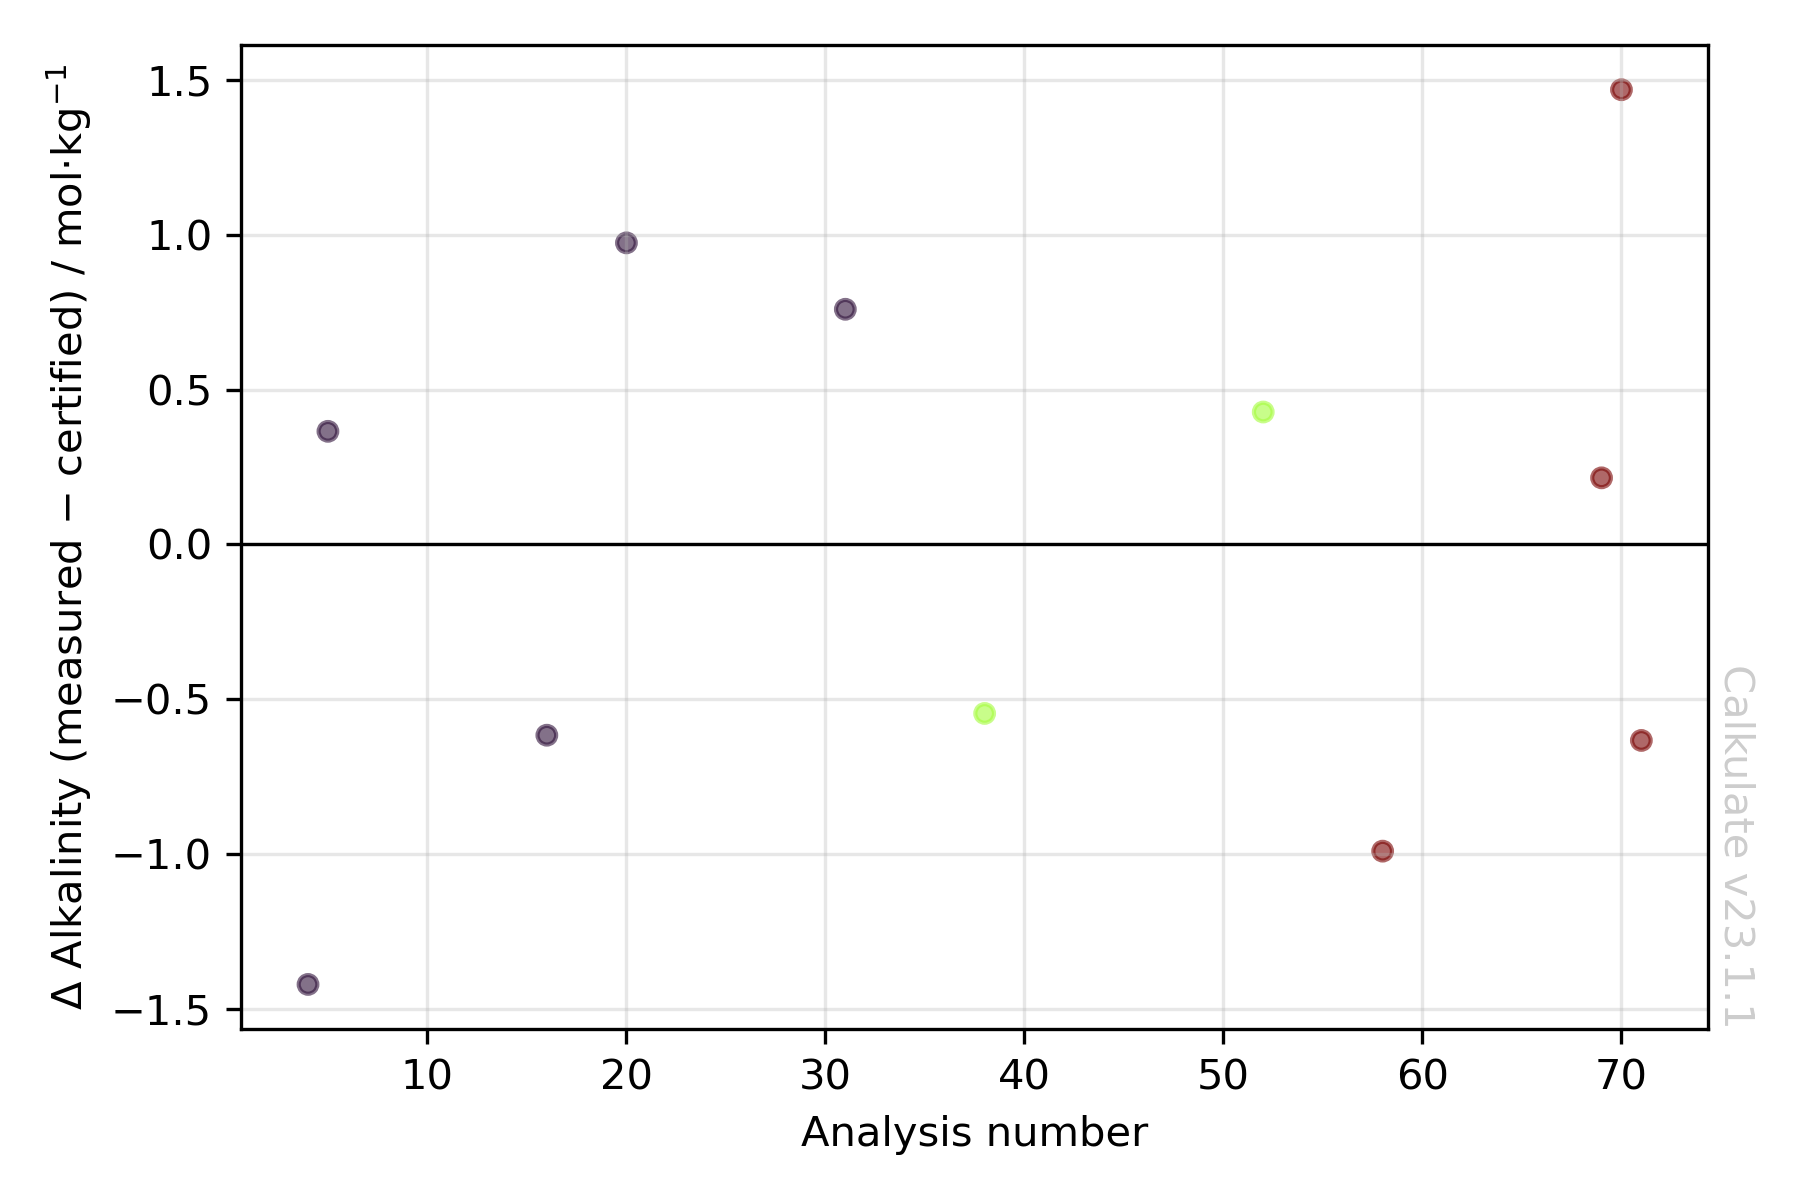
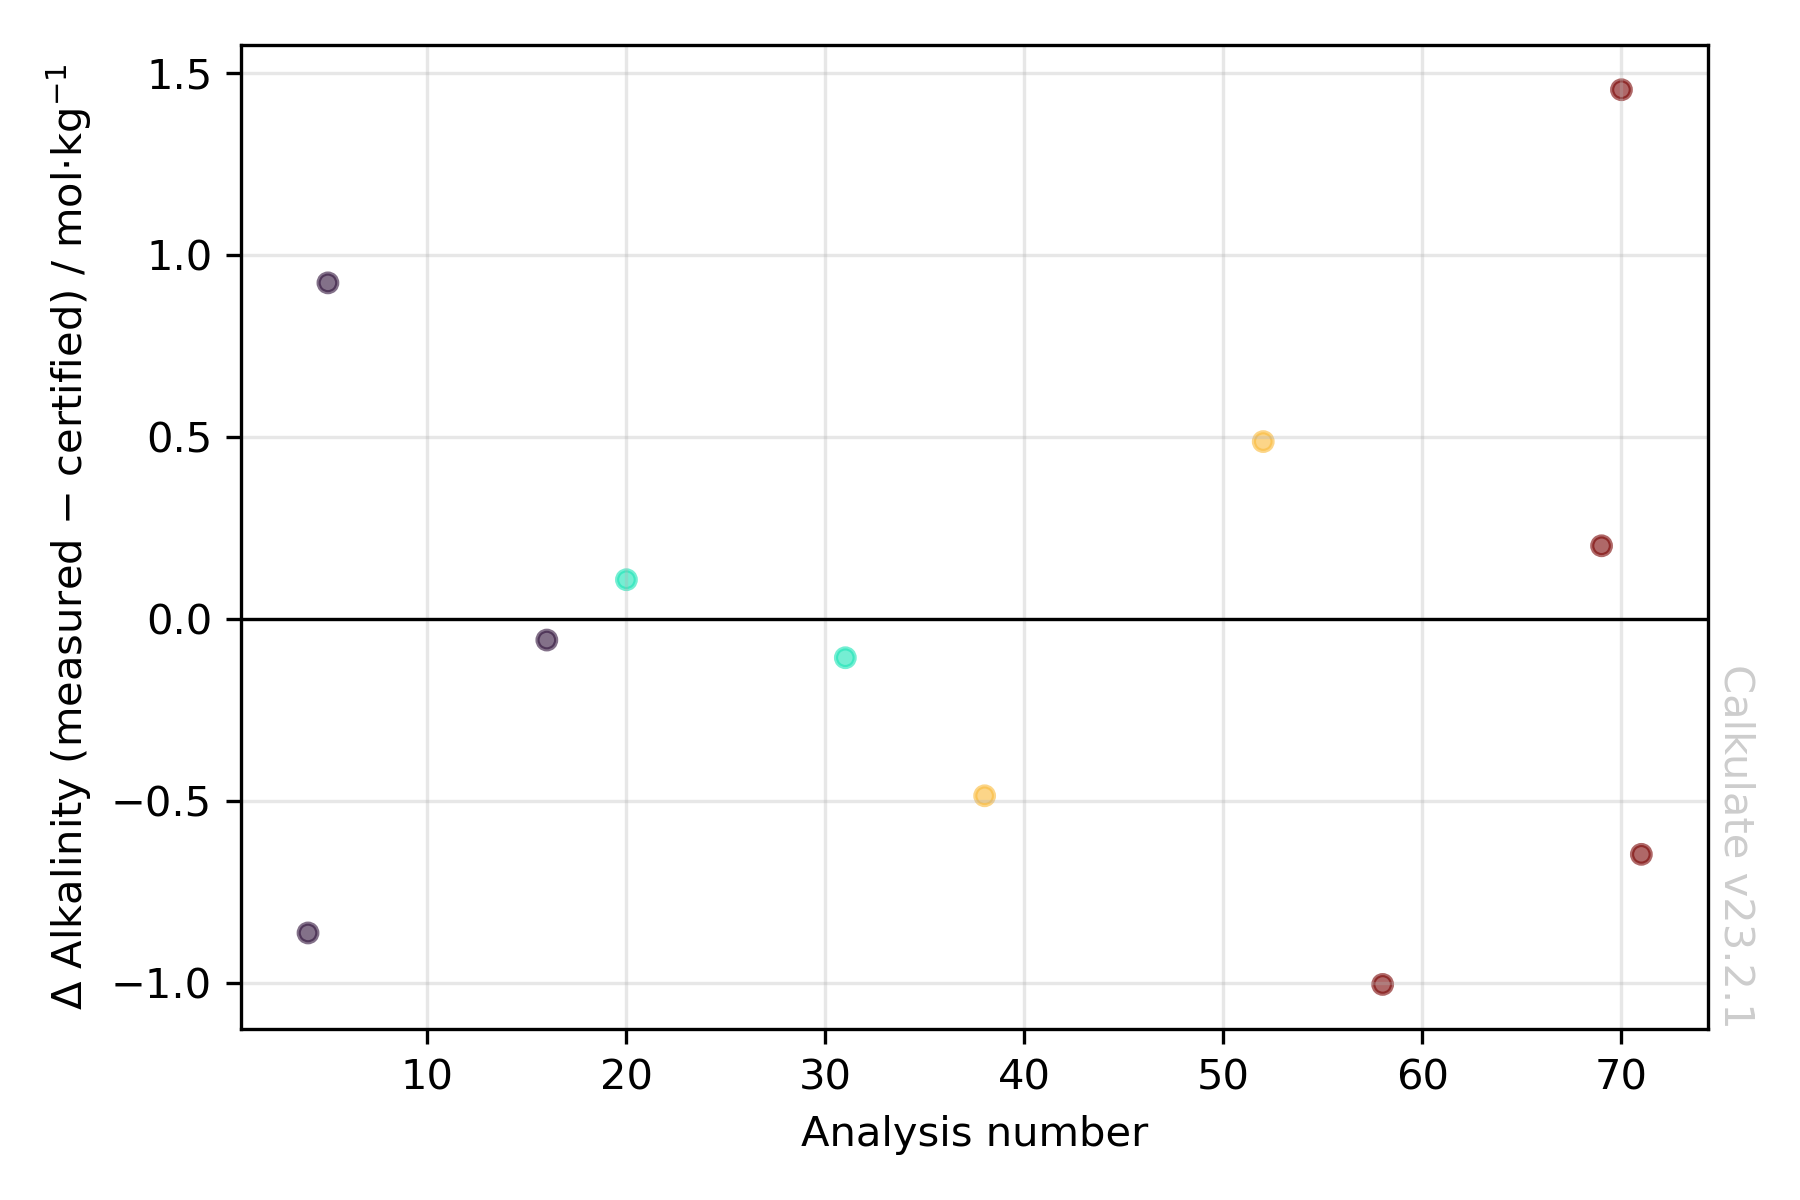
remove acid drift correction + treat each analysis batch as one acid batch

diff --git a/vindta/storage_test_process.py b/vindta/storage_test_process.py
@@ -167,9 +167,9 @@ dbs["file_path"] = "data/LD_storage_test_TA/"
 # first 4 analysis had the same bach made 15/09/2021
 # // this remedies the acid drift
 dbs['analysis_batch'] = 1 # made 15/09/2021
-dbs.loc[dbs['analysis_datetime'].dt.day==13, 'analysis_batch'] = 1
-dbs.loc[dbs['analysis_datetime'].dt.day==27, 'analysis_batch'] = 2
-dbs.loc[dbs['analysis_datetime'].dt.day==18, 'analysis_batch'] = 3
+dbs.loc[dbs['analysis_datetime'].dt.day==13, 'analysis_batch'] = 2
+dbs.loc[dbs['analysis_datetime'].dt.day==27, 'analysis_batch'] = 3
+dbs.loc[dbs['analysis_datetime'].dt.day==18, 'analysis_batch'] = 4
 
 # Select which TA CRMs to use/avoid for calibration
 dbs["reference_good"] = ~np.isnan(dbs.alkalinity_certified)
@@ -186,71 +186,6 @@ dbs.loc[dbs['bottle']=='CRM-189-0159-3', 'file_good'] = False
 # Calibrate and solve alkalinity and plot calibration
 calk.io.get_VINDTA_filenames(dbs)
 calk.dataset.calibrate(dbs)
-
-# === REMEDY ACID DRIFT
-# Isolate dbs in new pandas DataFrame
-L = (dbs["bottle"].str.startswith("CRM-")) & (dbs["reference_good"]==True)
-dbs_crms = dbs[L] 
-
-# Apply np.polytfit (order 3) to CRM titrant molinity
-p = np.polyfit(dbs_crms["analysis_datenum"],
-                dbs_crms["titrant_molinity_here"],
-                3)
-
-f = np.poly1d(p)
-
-# Apply fit to data
-x_new = np.linspace(dbs["analysis_datenum"].min(),
-                    dbs["analysis_datenum"].max(),
-                    100)
-y_new = f(x_new)
-
-# Plot fit
-# Create figure
-fig, ax = plt.subplots(dpi=300)
-
-# Plot fit
-sns.lineplot(x=x_new,
-              y=y_new,
-              color='xkcd:blue',
-              label="Polynomial fit (deg 3)",
-              ax=ax)
-
-# Scatter titrant molinity from CRMs
-sns.scatterplot(x="analysis_datenum",
-                y="titrant_molinity_here",
-                data=dbs_crms,
-                color='xkcd:blue',
-                label="CRMs titrant molinity",
-                ax=ax)
-
-# Apply fit to titrant molinity from CRMs
-dbs_crms["titrant_molinity_polyfit"] = f(dbs_crms["analysis_datenum"])
-
-# Take the mean from the polyfit titrant molinities
-molinity_coefficient = dbs_crms["titrant_molinity_polyfit"].mean()
-
-# Update titrant molity value in dbs file
-# dbs["titrant_molinity"] = f(dbs["analysis_datenum"])
-# dbs["titrant_molinity"] = molinity_coefficient
-
-# Update titrant molinity value in dbs file
-# analysis_dates = dbs["analysis_datetime"].dt.day.unique().tolist()
-# for date in analysis_dates:
-#     A = dbs["analysis_datetime"].dt.day==date
-#     B = dbs_crms["analysis_datetime"].dt.day==date
-#     dbs.loc[A, "titrant_molinity"] = dbs_crms.loc[B, "titrant_molinity_polyfit"].mean()
-
-analysis_batch = dbs["analysis_batch"].unique().tolist()
-for batch in analysis_batch:
-    A = dbs["analysis_batch"]==batch
-    B = dbs_crms["analysis_batch"]==batch
-    dbs.loc[A, "titrant_molinity"] = dbs_crms.loc[B, "titrant_molinity_polyfit"].mean()
-
-# dbs.loc[dbs['analysis_datetime'].dt.day==6,'titrant_molinity'] = 0.099252498
-# dbs.loc[dbs['analysis_datetime'].dt.day==13, 'titrant_molinity'] = 0.099252528
-# dbs.loc[dbs['analysis_datetime'].dt.day==27, 'titrant_molinity'] = 0.099252474
-# dbs.loc[dbs['analysis_datetime'].dt.day==18, 'titrant_molinity'] = 0.099252388
 
 # == CONTINUE SOLVING
 titrant_molinity_fname = "figs/LD_storage_test_TA/titrant_molinity.png"

diff --git a/vindta/acid_drift_polyfit.py b/vindta/acid_drift_polyfit.py
@@ -1,0 +1,67 @@
+# TO ADD AFTER
+# /// Calibrate and solve alkalinity and plot calibration ///
+
+# === REMEDY ACID DRIFT
+# Isolate dbs in new pandas DataFrame
+L = (dbs["bottle"].str.startswith("CRM-")) & (dbs["reference_good"]==True)
+dbs_crms = dbs[L] 
+
+# Apply np.polytfit (order 3) to CRM titrant molinity
+p = np.polyfit(dbs_crms["analysis_datenum"],
+                dbs_crms["titrant_molinity_here"],
+                3)
+
+f = np.poly1d(p)
+
+# Apply fit to data
+x_new = np.linspace(dbs["analysis_datenum"].min(),
+                    dbs["analysis_datenum"].max(),
+                    100)
+y_new = f(x_new)
+
+# Plot fit
+# Create figure
+fig, ax = plt.subplots(dpi=300)
+
+# Plot fit
+sns.lineplot(x=x_new,
+              y=y_new,
+              color='xkcd:blue',
+              label="Polynomial fit (deg 3)",
+              ax=ax)
+
+# Scatter titrant molinity from CRMs
+sns.scatterplot(x="analysis_datenum",
+                y="titrant_molinity_here",
+                data=dbs_crms,
+                color='xkcd:blue',
+                label="CRMs titrant molinity",
+                ax=ax)
+
+# Apply fit to titrant molinity from CRMs
+dbs_crms["titrant_molinity_polyfit"] = f(dbs_crms["analysis_datenum"])
+
+# Take the mean from the polyfit titrant molinities
+molinity_coefficient = dbs_crms["titrant_molinity_polyfit"].mean()
+
+# Update titrant molity value in dbs file
+# dbs["titrant_molinity"] = f(dbs["analysis_datenum"])
+# dbs["titrant_molinity"] = molinity_coefficient
+
+# Update titrant molinity value in dbs file
+# analysis_dates = dbs["analysis_datetime"].dt.day.unique().tolist()
+# for date in analysis_dates:
+#     A = dbs["analysis_datetime"].dt.day==date
+#     B = dbs_crms["analysis_datetime"].dt.day==date
+#     dbs.loc[A, "titrant_molinity"] = dbs_crms.loc[B, "titrant_molinity_polyfit"].mean()
+
+analysis_batch = dbs["analysis_batch"].unique().tolist()
+for batch in analysis_batch:
+    A = dbs["analysis_batch"]==batch
+    B = dbs_crms["analysis_batch"]==batch
+    dbs.loc[A, "titrant_molinity"] = dbs_crms.loc[B, "titrant_molinity_polyfit"].mean()
+
+# dbs.loc[dbs['analysis_datetime'].dt.day==6,'titrant_molinity'] = 0.099252498
+# dbs.loc[dbs['analysis_datetime'].dt.day==13, 'titrant_molinity'] = 0.099252528
+# dbs.loc[dbs['analysis_datetime'].dt.day==27, 'titrant_molinity'] = 0.099252474
+# dbs.loc[dbs['analysis_datetime'].dt.day==18, 'titrant_molinity'] = 0.099252388
